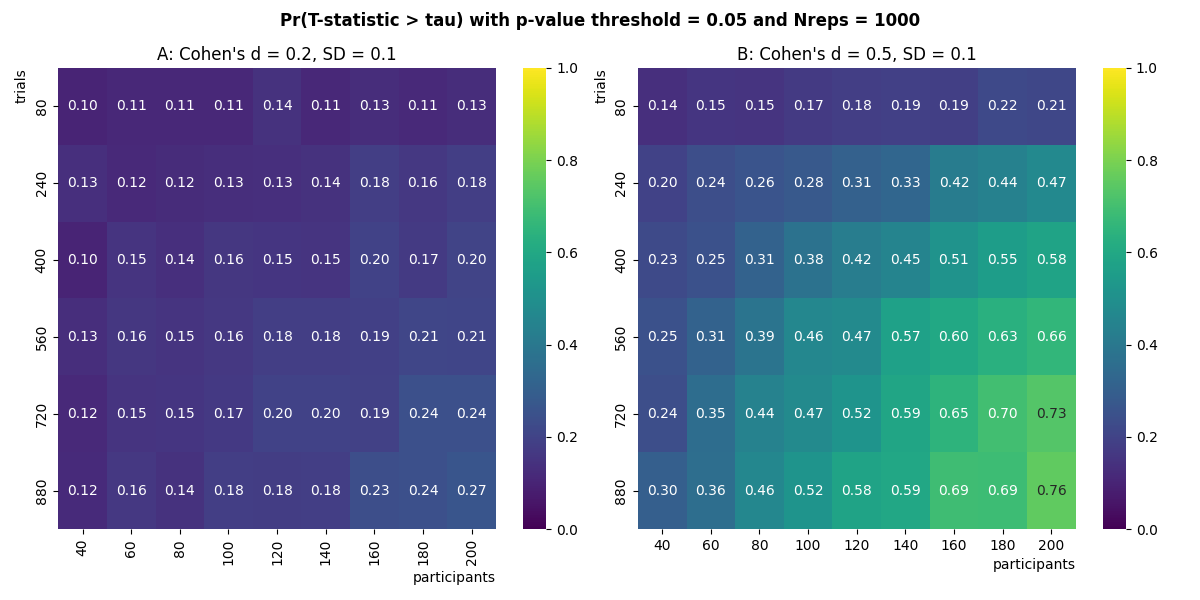
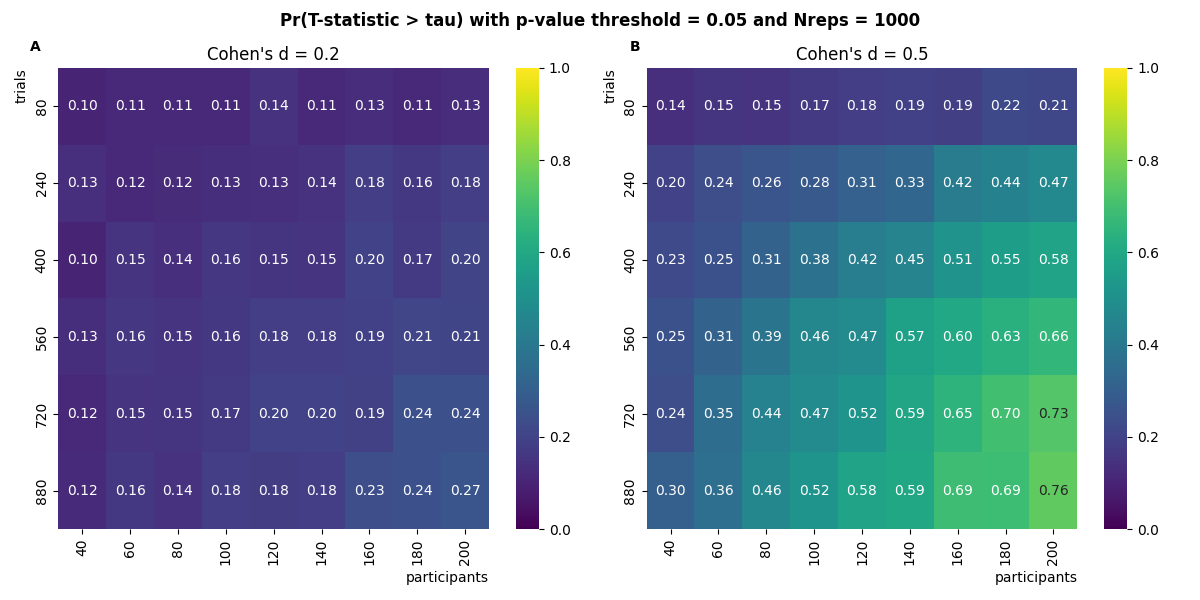
update

diff --git a/HPC_files/Heatmap_simulations.py b/HPC_files/Heatmap_simulations.py
@@ -14,14 +14,13 @@ from scipy import stats as stat
 
 
 folder = '/Users/pieter/Documents/GitHub/COMPASS/HPC_files/Output'
-criterion = 'EC'
+criterion = 'GD'
 sd = 0.1
 nreps = 1000
 
 def plot3D(criterion = 'IC', ntrials = np.arange(80, 1000, 160),
                ireversal = 40, npp = np.arange(40, 201, 20),
            sd = 0.2, main_folder = folder, nreps = 100, tau = 0.75, typeIerror = 0.05):
-    labels = ["A", "B", "C"]
     if criterion == 'IC':
         ess = [.1, .2]
         ES_text = ''
@@ -72,14 +71,19 @@ def plot3D(criterion = 'IC', ntrials = np.arange(80, 1000, 160),
         fig.suptitle(title, fontweight = 'bold')
         axes[i].set_ylabel('trials', loc = 'top')
         axes[i].set_xlabel('participants', loc = 'right')
-        axes[i].set_title(labels[i])
-        if criterion == 'IC': axes[i].set_title(labels[i] + ': SD = {}'.format(sd))
-        elif criterion == 'GD': axes[i].set_title(labels[i] + ': Cohen\'s d = {}, SD = {}'.format(ess[i], sd))
-        elif criterion == 'EC': axes[i].set_title(labels[i] + ': True correlation = {}, SD = {}'.format(ess[i], sd))
+        if criterion == 'IC': axes[i].set_title("SD = {}".format(sd))
+        elif criterion == 'GD': axes[i].set_title("Cohen\'s d = {}".format(ess[i]))
+        elif criterion == 'EC': axes[i].set_title("True correlation = {}".format(ess[i]))
 
-        fig.set_size_inches((12, 6), forward=False)
-        fig.tight_layout()
-        fig.savefig(os.path.join(plot_folder, 'Heatmap{}_{}nreps.png'.format(criterion, nreps)))
+
+    labels = ["A", "B"]
+    coord = [(0.025, 0.91), (0.525, 0.91)]
+    for j in  range(len(labels)):
+        # label physical distance to the lef
+        fig.text(coord[j][0], coord[j][1], labels[j], fontsize='medium', fontweight = "bold", va='bottom')
+    fig.set_size_inches((12, 6), forward=False)
+    fig.tight_layout()
+    fig.savefig(os.path.join(plot_folder, 'Heatmap{}_{}nreps.png'.format(criterion, nreps)))
 
     return Power_df
 
